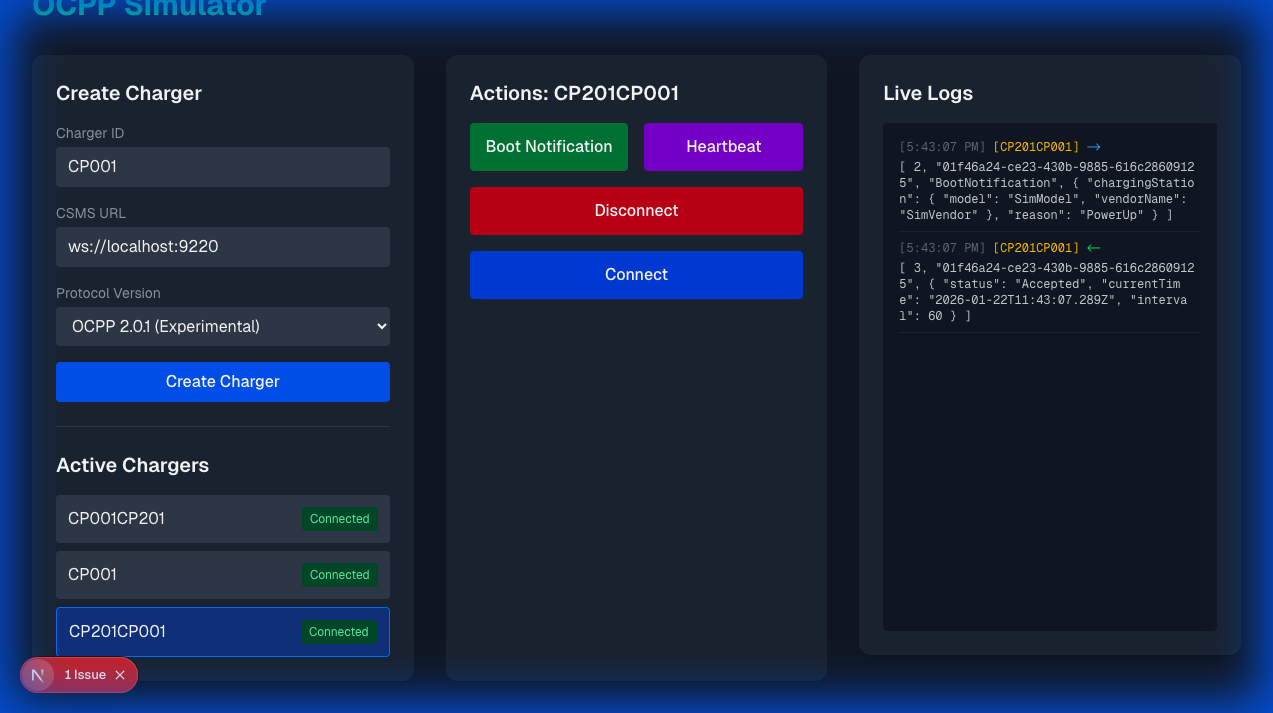
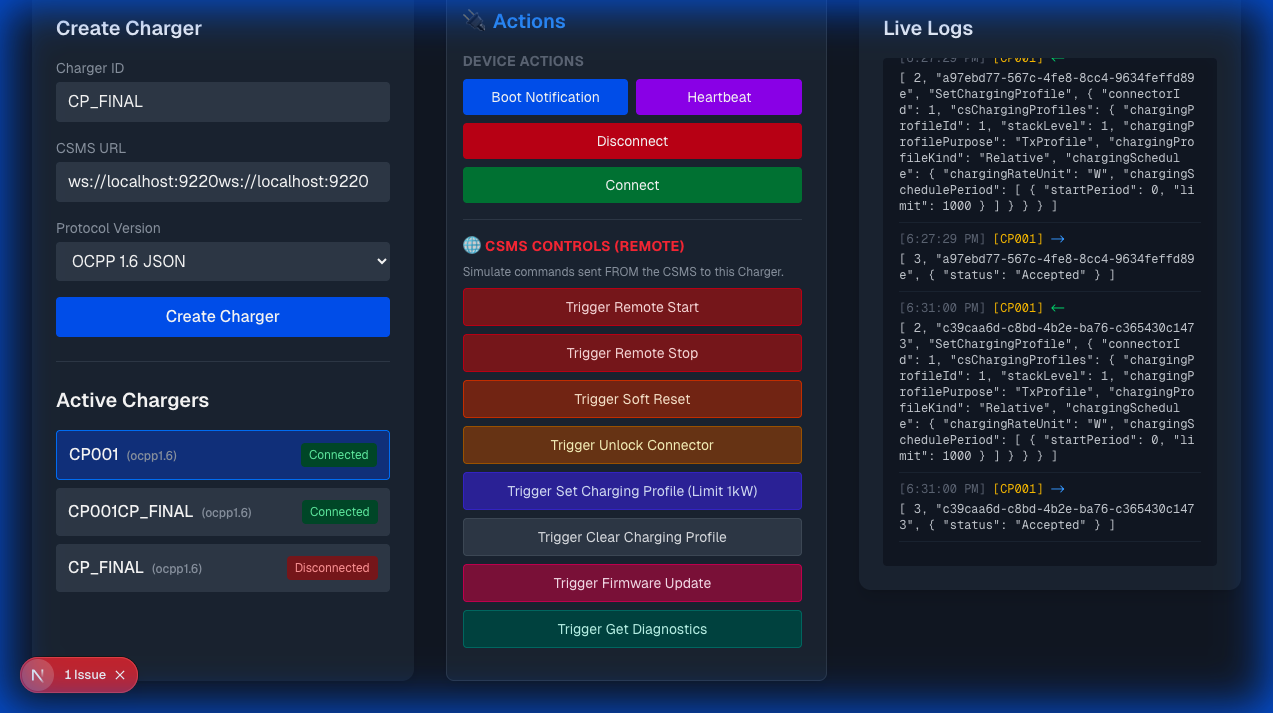
CSMS protocol Updated

diff --git a/src/app/components/SimulatorDashboard.tsx b/src/app/components/SimulatorDashboard.tsx
@@ -6,6 +6,7 @@ type Charger = {
     chargerId: string;
     status: string;
     version?: string;
+    activeChargingProfile?: string;
 };
 
 type Log = {
@@ -41,7 +42,7 @@ export default function SimulatorDashboard() {
                 fetchChargers();
             } else if (data.type === 'charger_updated') {
                 setChargers(prev => prev.map(c =>
-                    c.chargerId === data.chargerId ? { ...c, status: data.status } : c
+                    c.chargerId === data.chargerId ? { ...c, status: data.status, activeChargingProfile: data.activeChargingProfile } : c
                 ));
             }
         };
@@ -156,15 +157,22 @@ export default function SimulatorDashboard() {
                                 <div
                                     key={c.chargerId}
                                     onClick={() => setSelectedCharger(c.chargerId)}
-                                    className={`p-3 rounded cursor-pointer transition flex justify-between items-center ${selectedCharger === c.chargerId ? 'bg-blue-900 border border-blue-500' : 'bg-gray-700 hover:bg-gray-600'}`}
+                                    className={`p-3 rounded cursor-pointer transition flex flex-col ${selectedCharger === c.chargerId ? 'bg-blue-900 border border-blue-500' : 'bg-gray-700 hover:bg-gray-600'}`}
                                 >
-                                    <span>
-                                        {c.chargerId}
-                                        {c.version && <span className="ml-2 text-xs text-gray-400">({c.version})</span>}
-                                    </span>
-                                    <span className={`text-xs px-2 py-1 rounded ${c.status === 'Connected' ? 'bg-green-900 text-green-300' : 'bg-red-900 text-red-300'}`}>
-                                        {c.status}
-                                    </span>
+                                    <div className="flex justify-between items-center w-full">
+                                        <span className="font-medium">
+                                            {c.chargerId}
+                                            {c.version && <span className="ml-2 text-xs text-gray-400">({c.version})</span>}
+                                        </span>
+                                        <span className={`text-xs px-2 py-1 rounded ${c.status === 'Connected' ? 'bg-green-900 text-green-300' : 'bg-red-900 text-red-300'}`}>
+                                            {c.status}
+                                        </span>
+                                    </div>
+                                    {c.activeChargingProfile && (
+                                        <div className="mt-2 text-xs text-yellow-300 bg-gray-800 p-1 rounded border border-yellow-700">
+                                            ⚡ Profile: {c.activeChargingProfile}
+                                        </div>
+                                    )}
                                 </div>
                             ))}
                             {chargers.length === 0 && <p className="text-gray-500 text-sm">No chargers active.</p>}
@@ -240,6 +248,47 @@ export default function SimulatorDashboard() {
                                         className="bg-yellow-900 hover:bg-yellow-800 text-yellow-100 py-2 px-3 rounded text-sm transition border border-yellow-700"
                                     >
                                         Trigger Unlock Connector
+                                    </button>
+                                    <button
+                                        onClick={() => triggerCsmsCommand(selectedCharger, 'SetChargingProfile', {
+                                            connectorId: 1,
+                                            csChargingProfiles: {
+                                                chargingProfileId: 1,
+                                                stackLevel: 1,
+                                                chargingProfilePurpose: 'TxProfile',
+                                                chargingProfileKind: 'Relative',
+                                                chargingSchedule: {
+                                                    chargingRateUnit: 'W',
+                                                    chargingSchedulePeriod: [{ startPeriod: 0, limit: 1000 }]
+                                                }
+                                            }
+                                        })}
+                                        className="bg-indigo-900 hover:bg-indigo-800 text-indigo-100 py-2 px-3 rounded text-sm transition border border-indigo-700"
+                                    >
+                                        Trigger Set Charging Profile (Limit 1kW)
+                                    </button>
+                                    <button
+                                        onClick={() => triggerCsmsCommand(selectedCharger, 'ClearChargingProfile', {})}
+                                        className="bg-gray-700 hover:bg-gray-600 text-gray-200 py-2 px-3 rounded text-sm transition border border-gray-600"
+                                    >
+                                        Trigger Clear Charging Profile
+                                    </button>
+                                    <button
+                                        onClick={() => triggerCsmsCommand(selectedCharger, 'UpdateFirmware', {
+                                            location: 'http://firmware.server/fw.bin',
+                                            retrieveDate: new Date().toISOString()
+                                        })}
+                                        className="bg-pink-900 hover:bg-pink-800 text-pink-100 py-2 px-3 rounded text-sm transition border border-pink-700"
+                                    >
+                                        Trigger Firmware Update
+                                    </button>
+                                    <button
+                                        onClick={() => triggerCsmsCommand(selectedCharger, 'GetDiagnostics', {
+                                            location: 'http://diagnostics.server/upload',
+                                        })}
+                                        className="bg-teal-900 hover:bg-teal-800 text-teal-100 py-2 px-3 rounded text-sm transition border border-teal-700"
+                                    >
+                                        Trigger Get Diagnostics
                                     </button>
                                 </div>
                             </div>

diff --git a/src/core/Charger.ts b/src/core/Charger.ts
@@ -33,6 +33,19 @@ export class Charger {
                         return { status: 'Accepted' };
                     case 'UnlockConnector':
                         return { status: 'Unlocked' };
+                    case 'SetChargingProfile':
+                        await this.handleSetChargingProfile(payload);
+                        return { status: 'Accepted' };
+                    case 'ClearChargingProfile':
+                        await this.handleClearChargingProfile(payload);
+                        return { status: 'Accepted' };
+                    case 'UpdateFirmware':
+                        // Async simulation
+                        this.handleUpdateFirmware(payload).catch(console.error);
+                        return {}; // Empty response
+                    case 'GetDiagnostics':
+                        this.handleGetDiagnostics(payload).catch(console.error);
+                        return { fileName: 'diagnostics.log' };
                     default:
                         throw new Error('NotImplemented');
                 }
@@ -184,5 +197,50 @@ export class Charger {
                 await this.boot();
             }, 2000);
         }, 1000);
+    }
+
+    private async handleSetChargingProfile(payload: any) {
+        console.log('Set Charging Profile received', payload);
+        const profile = payload.csChargingProfiles;
+        // Just storing a summary for UI display
+        this.state.activeChargingProfile = `ID: ${profile.chargingProfileId}, Purpose: ${profile.chargingProfilePurpose}, Kind: ${profile.chargingProfileKind}`;
+        this.notifyStateChange();
+    }
+
+    private async handleClearChargingProfile(payload: any) {
+        console.log('Clear Charging Profile received', payload);
+        this.state.activeChargingProfile = undefined;
+        this.notifyStateChange();
+    }
+
+    private async handleUpdateFirmware(payload: any) {
+        console.log('Update Firmware requested', payload);
+        // Flow: Idle -> Downloading -> Downloaded -> Installing -> Installed -> Reboot
+        await this.adapter.sendFirmwareStatusNotification('Downloading');
+
+        // Simulate download
+        setTimeout(async () => {
+            await this.adapter.sendFirmwareStatusNotification('Downloaded');
+
+            // Simulate installation
+            setTimeout(async () => {
+                await this.adapter.sendFirmwareStatusNotification('Installing');
+
+                setTimeout(async () => {
+                    await this.adapter.sendFirmwareStatusNotification('Installed');
+                    // Reboot
+                    await this.handleReset('Soft');
+                }, 2000);
+            }, 2000);
+        }, 2000);
+    }
+
+    private async handleGetDiagnostics(payload: any) {
+        console.log('Get Diagnostics requested', payload);
+        await this.adapter.sendDiagnosticsStatusNotification('Uploading');
+        // Simulate upload
+        setTimeout(async () => {
+            await this.adapter.sendDiagnosticsStatusNotification('Uploaded');
+        }, 3000);
     }
 }

diff --git a/src/protocols/ocpp16/schemas.ts b/src/protocols/ocpp16/schemas.ts
@@ -100,3 +100,82 @@ export const MeterValuesRequestSchema = z.object({
 });
 
 export const MeterValuesResponseSchema = z.object({});
+
+// --- Smart Charging ---
+
+export const ChargingSchedulePeriodSchema = z.object({
+    startPeriod: z.number().int(),
+    limit: z.number(),
+    numberPhases: z.number().int().optional(),
+});
+
+export const ChargingScheduleSchema = z.object({
+    duration: z.number().int().optional(),
+    startSchedule: z.string().optional(),
+    chargingRateUnit: z.enum(['A', 'W']),
+    chargingSchedulePeriod: z.array(ChargingSchedulePeriodSchema),
+    minChargingRate: z.number().optional(),
+});
+
+export const ChargingProfileSchema = z.object({
+    chargingProfileId: z.number().int(),
+    transactionId: z.number().int().optional(),
+    stackLevel: z.number().int().min(0),
+    chargingProfilePurpose: z.enum(['ChargePointMaxProfile', 'TxDefaultProfile', 'TxProfile']),
+    chargingProfileKind: z.enum(['Absolute', 'Recurring', 'Relative']),
+    recurrencyKind: z.enum(['Daily', 'Weekly']).optional(),
+    validFrom: z.string().optional(),
+    validTo: z.string().optional(),
+    chargingSchedule: ChargingScheduleSchema,
+});
+
+export const SetChargingProfileRequestSchema = z.object({
+    connectorId: z.number().int().min(0),
+    csChargingProfiles: ChargingProfileSchema,
+});
+
+export const SetChargingProfileResponseSchema = z.object({
+    status: z.enum(['Accepted', 'Rejected', 'NotSupported']),
+});
+
+export const ClearChargingProfileRequestSchema = z.object({
+    id: z.number().int().optional(),
+    connectorId: z.number().int().optional(),
+    chargingProfilePurpose: z.enum(['ChargePointMaxProfile', 'TxDefaultProfile', 'TxProfile']).optional(),
+    stackLevel: z.number().int().optional(),
+});
+
+export const ClearChargingProfileResponseSchema = z.object({
+    status: z.enum(['Accepted', 'Unknown']),
+});
+
+// --- Firmware & Diagnostics ---
+
+export const UpdateFirmwareRequestSchema = z.object({
+    location: z.string(),
+    retries: z.number().int().optional(),
+    retrieveDate: z.string(),
+    retryInterval: z.number().int().optional(),
+});
+export const UpdateFirmwareResponseSchema = z.object({});
+
+export const GetDiagnosticsRequestSchema = z.object({
+    location: z.string(),
+    retries: z.number().int().optional(),
+    retryInterval: z.number().int().optional(),
+    startTime: z.string().optional(),
+    stopTime: z.string().optional(),
+});
+export const GetDiagnosticsResponseSchema = z.object({
+    fileName: z.string().optional(),
+});
+
+export const FirmwareStatusNotificationRequestSchema = z.object({
+    status: z.enum(['Downloaded', 'DownloadFailed', 'Downloading', 'Idle', 'InstallationFailed', 'Installing', 'Installed']),
+});
+export const FirmwareStatusNotificationResponseSchema = z.object({});
+
+export const DiagnosticsStatusNotificationRequestSchema = z.object({
+    status: z.enum(['Idle', 'Uploaded', 'UploadFailed', 'Uploading']),
+});
+export const DiagnosticsStatusNotificationResponseSchema = z.object({});

diff --git a/src/protocols/ocpp16/messages.ts b/src/protocols/ocpp16/messages.ts
@@ -22,6 +22,24 @@ export type StatusNotificationResponse = z.infer<typeof schemas.StatusNotificati
 export type MeterValuesRequest = z.infer<typeof schemas.MeterValuesRequestSchema>;
 export type MeterValuesResponse = z.infer<typeof schemas.MeterValuesResponseSchema>;
 
+export type SetChargingProfileRequest = z.infer<typeof schemas.SetChargingProfileRequestSchema>;
+export type SetChargingProfileResponse = z.infer<typeof schemas.SetChargingProfileResponseSchema>;
+
+export type ClearChargingProfileRequest = z.infer<typeof schemas.ClearChargingProfileRequestSchema>;
+export type ClearChargingProfileResponse = z.infer<typeof schemas.ClearChargingProfileResponseSchema>;
+
+export type UpdateFirmwareRequest = z.infer<typeof schemas.UpdateFirmwareRequestSchema>;
+export type UpdateFirmwareResponse = z.infer<typeof schemas.UpdateFirmwareResponseSchema>;
+
+export type GetDiagnosticsRequest = z.infer<typeof schemas.GetDiagnosticsRequestSchema>;
+export type GetDiagnosticsResponse = z.infer<typeof schemas.GetDiagnosticsResponseSchema>;
+
+export type FirmwareStatusNotificationRequest = z.infer<typeof schemas.FirmwareStatusNotificationRequestSchema>;
+export type FirmwareStatusNotificationResponse = z.infer<typeof schemas.FirmwareStatusNotificationResponseSchema>;
+
+export type DiagnosticsStatusNotificationRequest = z.infer<typeof schemas.DiagnosticsStatusNotificationRequestSchema>;
+export type DiagnosticsStatusNotificationResponse = z.infer<typeof schemas.DiagnosticsStatusNotificationResponseSchema>;
+
 // Message Type constants
 export enum MessageType {
     CALL = 2,
@@ -37,4 +55,12 @@ export type ActionName =
     | 'StartTransaction'
     | 'StopTransaction'
     | 'StatusNotification'
-    | 'MeterValues';
+    | 'StatusNotification'
+    | 'MeterValues'
+    | 'SetChargingProfile'
+    | 'SetChargingProfile'
+    | 'ClearChargingProfile'
+    | 'UpdateFirmware'
+    | 'GetDiagnostics'
+    | 'FirmwareStatusNotification'
+    | 'DiagnosticsStatusNotification';

diff --git a/src/protocols/ocpp16/Ocpp16JsonAdapter.ts b/src/protocols/ocpp16/Ocpp16JsonAdapter.ts
@@ -8,7 +8,9 @@ import {
     StartTransactionRequest, StartTransactionResponse,
     StopTransactionRequest, StopTransactionResponse,
     StatusNotificationRequest, StatusNotificationResponse,
-    MeterValuesRequest, MeterValuesResponse
+    MeterValuesRequest, MeterValuesResponse,
+    FirmwareStatusNotificationRequest, FirmwareStatusNotificationResponse,
+    DiagnosticsStatusNotificationRequest, DiagnosticsStatusNotificationResponse
 } from './messages';
 
 export class Ocpp16JsonAdapter implements IProtocolAdapter {
@@ -132,6 +134,16 @@ export class Ocpp16JsonAdapter implements IProtocolAdapter {
             }]
         };
         await this.callAction<MeterValuesResponse>('MeterValues', request);
+    }
+
+    async sendFirmwareStatusNotification(status: 'Downloaded' | 'DownloadFailed' | 'Downloading' | 'Idle' | 'InstallationFailed' | 'Installing' | 'Installed'): Promise<void> {
+        const request: FirmwareStatusNotificationRequest = { status };
+        await this.callAction<FirmwareStatusNotificationResponse>('FirmwareStatusNotification', request);
+    }
+
+    async sendDiagnosticsStatusNotification(status: 'Idle' | 'Uploaded' | 'UploadFailed' | 'Uploading'): Promise<void> {
+        const request: DiagnosticsStatusNotificationRequest = { status };
+        await this.callAction<DiagnosticsStatusNotificationResponse>('DiagnosticsStatusNotification', request);
     }
 
     // --- Internal Helper ---

diff --git a/src/protocols/ocpp201/Ocpp201Adapter.ts b/src/protocols/ocpp201/Ocpp201Adapter.ts
@@ -207,4 +207,15 @@ export class Ocpp201Adapter implements IProtocolAdapter {
     async sendMeterValues() {
         // TODO: Implement TransactionEvent(Updated) for periodic meter values
     }
+
+    async sendFirmwareStatusNotification(status: string): Promise<void> {
+        // 2.0.1 uses FirmwareStatusNotificationRequest
+        // Status enum is slightly different (e.g. "Downloading", "Installed") - compatible with 1.6
+        await this.callAction('FirmwareStatusNotification', { status });
+    }
+
+    async sendDiagnosticsStatusNotification(status: string): Promise<void> {
+        // 2.0.1 uses LogStatusNotificationRequest
+        await this.callAction('LogStatusNotification', { status: status === 'Uploading' ? 'Uploading' : 'Uploaded' });
+    }
 }

diff --git a/src/core/IProtocolAdapter.ts b/src/core/IProtocolAdapter.ts
@@ -19,4 +19,6 @@ export interface IProtocolAdapter {
     stopTransaction(transactionId: number, meterStop: number, idTag: string): Promise<{ idTagInfo: { status: string } }>;
     sendStatusNotification(connectorId: number, status: string, errorCode?: string): Promise<void>;
     sendMeterValues(connectorId: number, transactionId: number, meterValue: number): Promise<void>;
+    sendFirmwareStatusNotification(status: 'Downloaded' | 'DownloadFailed' | 'Downloading' | 'Idle' | 'InstallationFailed' | 'Installing' | 'Installed'): Promise<void>;
+    sendDiagnosticsStatusNotification(status: 'Idle' | 'Uploaded' | 'UploadFailed' | 'Uploading'): Promise<void>;
 }

diff --git a/src/core/ChargerState.ts b/src/core/ChargerState.ts
@@ -23,6 +23,7 @@ export interface ChargerState {
     csmsUrl?: string;
     heartbeatInterval: number; // in seconds
     booted: boolean;
+    activeChargingProfile?: string; // Summary or JSON string of the active profile
 }
 
 export const createInitialConnectorState = (id: number): ConnectorState => ({
